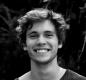
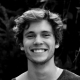
CSS .slider-item__avatar style

diff --git a/css/main.min.css b/css/main.min.css
@@ -1,1 +1,1 @@
-@import"https://fonts.googleapis.com/css2?family=Montserrat:wght@500;700;800&display=swap";.section-price::before,.section-cta::before,.header::before{position:absolute;top:0;bottom:0;left:0;right:0;content:"";background-color:rgba(0,0,0,.35)}*{padding:0px;margin:0px;border:none}*,*::before,*::after{box-sizing:border-box}a,a:link,a:visited{text-decoration:none}a:hover{text-decoration:none}aside,nav,footer,header,section,main{display:block}h1,h2,h3,h4,h5,h6,p{font-size:inherit;font-weight:inherit}ul,ul li{list-style:none}img{vertical-align:top}img,svg{max-width:100%;height:auto}address{font-style:normal}input,textarea,button,select{font-family:inherit;font-size:inherit;color:inherit;background-color:rgba(0,0,0,0)}input::-ms-clear{display:none}button,input[type=submit]{display:inline-block;box-shadow:none;background-color:rgba(0,0,0,0);background:none;cursor:pointer}input:focus,input:active,button:focus,button:active{outline:none}button::-moz-focus-inner{padding:0;border:0}label{cursor:pointer}legend{display:block}.container{width:1200px;padding:0 15px;margin:0 auto}body{font-family:"Montserrat",sans-serif;color:#2e2e2e}.none{display:none}.header{position:relative;height:870px;background-image:url("./../img/header/header-bg.jpg");background-size:cover;background-position:center;background-repeat:no-repeat}.header__wrapper{padding-top:60px;position:absolute;z-index:9;top:0;bottom:0;left:0;right:0;color:#fff}.header__buttons{display:flex;justify-content:space-between}.header__content{position:absolute;top:50%;left:50%;transform:translate(-50%, -50%);text-align:center}.header__title{margin-bottom:40px;font-size:96px;font-weight:700;line-height:1}.header__desc{margin-bottom:70px;max-width:730px;margin-left:auto;margin-right:auto;font-size:20px;font-weight:700;line-height:normal}.header__form{display:flex;justify-content:center;-moz-column-gap:20px;column-gap:20px}.header__scroll{position:absolute;left:50%;bottom:100px;transform:translateX(-50%)}.button-round{width:60px;height:60px;border-radius:50%;background-color:#fff;cursor:pointer}.button-round:hover{background-color:#00c470}.input{padding:0 30px;width:240px;height:60px;background-color:rgba(0,0,0,.75);border-radius:30px;font-size:14px;font-weight:700;line-height:60px;color:#fff}.input:focus{background-color:#000}.input::-moz-placeholder{color:#fff}.input::placeholder{color:#fff}.button{padding:0 40px;height:60px;border-radius:30px;background-color:#00c470;font-size:14px;font-weight:800;line-height:14px;letter-spacing:4px;text-transform:uppercase;color:#fff;transition:background-color .2s ease-in}.button:hover{background-color:#00ad62}.button:focus{background-color:#00a05a}.section-functional{padding:80px 0}.section-functional__header{margin-bottom:70px;text-align:center}.section-functional__title{margin-bottom:40px}.section-functional__row{display:flex;-moz-column-gap:30px;column-gap:30px}.title{font-size:16px;font-weight:700;line-height:1;letter-spacing:4px;text-transform:uppercase;color:#15d784}.subtitle{font-size:48px;font-weight:700;line-height:1}.card{width:270px;text-align:center}.card__img{margin-bottom:40px}.card__title{margin-bottom:20px;font-size:16px;font-weight:700;line-height:1}.card__text{font-size:14px;font-weight:500;line-height:2.14;color:gray}.section-cta{position:relative;padding:83px 0 84px;background-image:url("./../img/cta/cta-bg.jpg");background-size:cover;background-position:center;background-repeat:no-repeat}.section-cta__content{z-index:9;position:relative;text-align:center}.section-cta__title{margin-bottom:40px;font-size:22px;font-weight:500;line-height:1;color:#fff}.section-cta__title span{font-weight:700;text-transform:uppercase}.section-tasks{padding:80px 0 40px;border-bottom:1px solid #e1e1e1}.section-tasks__row{padding-left:100px;padding-right:114px;display:flex;justify-content:space-between;align-items:center}.section-tasks__content{width:570px}.section-tasks__header{margin-bottom:30px}.section-tasks__title{margin-bottom:30px}.section-tasks__text{width:400px;font-size:14px;font-weight:500;line-height:2.14;color:gray}.section-tasks__text p+*{margin-top:15px}.section-focus{padding:80px 0 40px}.section-focus__row{display:flex;justify-content:space-between}.section-focus__content{padding-top:28px;width:470px}.section-focus__header{margin-bottom:30px}.section-focus__title{margin-bottom:30px}.section-focus__text{width:400px}.section-focus__text p+*{margin-top:15px}.section-price{position:relative;padding:90px 0 100px;background-image:url("./../img/prices/prices-bg.jpg");background-size:cover;background-position:center;background-repeat:no-repeat}.section-price__content{position:relative;z-index:9}.section-price__content .title,.section-price__content .subtitle{color:#fff}.section-price__header{margin-bottom:80px;text-align:center}.section-price__title{margin-bottom:40px}.section-price__row{display:flex;justify-content:center;-moz-column-gap:30px;column-gap:30px;-webkit-box-pack:center}.package{display:flex;flex-direction:column;padding:40px 0;width:300px;background:rgba(0,0,0,.75);border-radius:8px;text-align:center;color:#fff}.package--special{background-color:rgba(48,79,254,.95)}.package--special .package__title{color:#fff}.package--special .package__period{background-color:rgba(0,0,0,.1)}.package__header{padding:0 15px;padding-bottom:40px;display:flex;flex-direction:column;align-items:center;border-bottom:1px solid rgba(255,255,255,.1)}.package__title{margin-bottom:20px;font-size:16px;font-weight:700;line-height:1;letter-spacing:4px;text-transform:uppercase;color:#b2b2b2}.package__price{margin-bottom:15px;font-size:80px;font-weight:700;line-height:1;letter-spacing:4px;text-transform:uppercase;color:#fff}.package__period{padding:0 15px;display:inline-block;height:24px;border-radius:30px;background-color:rgba(255,255,255,.1);font-size:12px;font-weight:700;line-height:24px;letter-spacing:4px;text-transform:uppercase;color:#fff}.package__list{margin-bottom:58px;padding:40px 15px 0}.package__list-item{margin-bottom:25px}.package__list-item:last-child{margin-bottom:0}.package__button{margin-top:auto}.button-outline{padding:0 40px;height:60px;border-radius:30px;background-color:rgba(0,0,0,0);border:1px solid rgba(255,255,255,.2);font-size:14px;font-weight:800;line-height:14px;letter-spacing:4px;text-transform:uppercase;color:#fff;transition:background-color .2s ease-in}.button-outline:hover{background-color:rgba(255,255,255,.2);border:1px solid rgba(255,255,255,0)}.button-outline:focus{background-color:#000}.button-solid{padding:0 40px;height:60px;border-radius:30px;background-color:#fff;font-size:14px;font-weight:800;line-height:14px;letter-spacing:4px;text-transform:uppercase;color:#2e2e2e;transition:background-color .2s ease-in}.button-solid:hover{background-color:#000;color:#fff}.button-solid:focus{background-color:#2f2f2f;color:#fff}.section-clients{padding:80px 0}.section-clients__header{margin-bottom:60px;text-align:center}.section-clients__title{margin-bottom:40px}.section-clients__slider{margin:0 auto;width:770px}.slider{position:relative;background-color:#8a2be2}.slider__arrow{position:absolute;display:flex;justify-content:center;align-items:center;width:54px;height:54px;border-radius:50%;background-color:#f5f5f5}.slider__arrow--left{top:53px;left:-46px;transform:translateX(-100%)}.slider__arrow--right{top:53px;right:-46px;transform:translateX(100%)}.slider-item{display:flex;flex-direction:column;align-items:center;background-color:blue}.slider-item__text{margin-bottom:30px;text-align:center;font-size:18px;font-weight:500;line-height:2;color:#000}.slider-item__author{display:flex;gap:20px;align-items:center}/*# sourceMappingURL=main.min.css.map */
+@import"https://fonts.googleapis.com/css2?family=Montserrat:wght@500;700;800&display=swap";.section-price::before,.section-cta::before,.header::before{position:absolute;top:0;bottom:0;left:0;right:0;content:"";background-color:rgba(0,0,0,.35)}*{padding:0px;margin:0px;border:none}*,*::before,*::after{box-sizing:border-box}a,a:link,a:visited{text-decoration:none}a:hover{text-decoration:none}aside,nav,footer,header,section,main{display:block}h1,h2,h3,h4,h5,h6,p{font-size:inherit;font-weight:inherit}ul,ul li{list-style:none}img{vertical-align:top}img,svg{max-width:100%;height:auto}address{font-style:normal}input,textarea,button,select{font-family:inherit;font-size:inherit;color:inherit;background-color:rgba(0,0,0,0)}input::-ms-clear{display:none}button,input[type=submit]{display:inline-block;box-shadow:none;background-color:rgba(0,0,0,0);background:none;cursor:pointer}input:focus,input:active,button:focus,button:active{outline:none}button::-moz-focus-inner{padding:0;border:0}label{cursor:pointer}legend{display:block}.container{width:1200px;padding:0 15px;margin:0 auto}body{font-family:"Montserrat",sans-serif;color:#2e2e2e}.none{display:none}.header{position:relative;height:870px;background-image:url("./../img/header/header-bg.jpg");background-size:cover;background-position:center;background-repeat:no-repeat}.header__wrapper{padding-top:60px;position:absolute;z-index:9;top:0;bottom:0;left:0;right:0;color:#fff}.header__buttons{display:flex;justify-content:space-between}.header__content{position:absolute;top:50%;left:50%;transform:translate(-50%, -50%);text-align:center}.header__title{margin-bottom:40px;font-size:96px;font-weight:700;line-height:1}.header__desc{margin-bottom:70px;max-width:730px;margin-left:auto;margin-right:auto;font-size:20px;font-weight:700;line-height:normal}.header__form{display:flex;justify-content:center;-moz-column-gap:20px;column-gap:20px}.header__scroll{position:absolute;left:50%;bottom:100px;transform:translateX(-50%)}.button-round{width:60px;height:60px;border-radius:50%;background-color:#fff;cursor:pointer}.button-round:hover{background-color:#00c470}.input{padding:0 30px;width:240px;height:60px;background-color:rgba(0,0,0,.75);border-radius:30px;font-size:14px;font-weight:700;line-height:60px;color:#fff}.input:focus{background-color:#000}.input::-moz-placeholder{color:#fff}.input::placeholder{color:#fff}.button{padding:0 40px;height:60px;border-radius:30px;background-color:#00c470;font-size:14px;font-weight:800;line-height:14px;letter-spacing:4px;text-transform:uppercase;color:#fff;transition:background-color .2s ease-in}.button:hover{background-color:#00ad62}.button:focus{background-color:#00a05a}.section-functional{padding:80px 0}.section-functional__header{margin-bottom:70px;text-align:center}.section-functional__title{margin-bottom:40px}.section-functional__row{display:flex;-moz-column-gap:30px;column-gap:30px}.title{font-size:16px;font-weight:700;line-height:1;letter-spacing:4px;text-transform:uppercase;color:#15d784}.subtitle{font-size:48px;font-weight:700;line-height:1}.card{width:270px;text-align:center}.card__img{margin-bottom:40px}.card__title{margin-bottom:20px;font-size:16px;font-weight:700;line-height:1}.card__text{font-size:14px;font-weight:500;line-height:2.14;color:gray}.section-cta{position:relative;padding:83px 0 84px;background-image:url("./../img/cta/cta-bg.jpg");background-size:cover;background-position:center;background-repeat:no-repeat}.section-cta__content{z-index:9;position:relative;text-align:center}.section-cta__title{margin-bottom:40px;font-size:22px;font-weight:500;line-height:1;color:#fff}.section-cta__title span{font-weight:700;text-transform:uppercase}.section-tasks{padding:80px 0 40px;border-bottom:1px solid #e1e1e1}.section-tasks__row{padding-left:100px;padding-right:114px;display:flex;justify-content:space-between;align-items:center}.section-tasks__content{width:570px}.section-tasks__header{margin-bottom:30px}.section-tasks__title{margin-bottom:30px}.section-tasks__text{width:400px;font-size:14px;font-weight:500;line-height:2.14;color:gray}.section-tasks__text p+*{margin-top:15px}.section-focus{padding:80px 0 40px}.section-focus__row{display:flex;justify-content:space-between}.section-focus__content{padding-top:28px;width:470px}.section-focus__header{margin-bottom:30px}.section-focus__title{margin-bottom:30px}.section-focus__text{width:400px}.section-focus__text p+*{margin-top:15px}.section-price{position:relative;padding:90px 0 100px;background-image:url("./../img/prices/prices-bg.jpg");background-size:cover;background-position:center;background-repeat:no-repeat}.section-price__content{position:relative;z-index:9}.section-price__content .title,.section-price__content .subtitle{color:#fff}.section-price__header{margin-bottom:80px;text-align:center}.section-price__title{margin-bottom:40px}.section-price__row{display:flex;justify-content:center;-moz-column-gap:30px;column-gap:30px;-webkit-box-pack:center}.package{display:flex;flex-direction:column;padding:40px 0;width:300px;background:rgba(0,0,0,.75);border-radius:8px;text-align:center;color:#fff}.package--special{background-color:rgba(48,79,254,.95)}.package--special .package__title{color:#fff}.package--special .package__period{background-color:rgba(0,0,0,.1)}.package__header{padding:0 15px;padding-bottom:40px;display:flex;flex-direction:column;align-items:center;border-bottom:1px solid rgba(255,255,255,.1)}.package__title{margin-bottom:20px;font-size:16px;font-weight:700;line-height:1;letter-spacing:4px;text-transform:uppercase;color:#b2b2b2}.package__price{margin-bottom:15px;font-size:80px;font-weight:700;line-height:1;letter-spacing:4px;text-transform:uppercase;color:#fff}.package__period{padding:0 15px;display:inline-block;height:24px;border-radius:30px;background-color:rgba(255,255,255,.1);font-size:12px;font-weight:700;line-height:24px;letter-spacing:4px;text-transform:uppercase;color:#fff}.package__list{margin-bottom:58px;padding:40px 15px 0}.package__list-item{margin-bottom:25px}.package__list-item:last-child{margin-bottom:0}.package__button{margin-top:auto}.button-outline{padding:0 40px;height:60px;border-radius:30px;background-color:rgba(0,0,0,0);border:1px solid rgba(255,255,255,.2);font-size:14px;font-weight:800;line-height:14px;letter-spacing:4px;text-transform:uppercase;color:#fff;transition:background-color .2s ease-in}.button-outline:hover{background-color:rgba(255,255,255,.2);border:1px solid rgba(255,255,255,0)}.button-outline:focus{background-color:#000}.button-solid{padding:0 40px;height:60px;border-radius:30px;background-color:#fff;font-size:14px;font-weight:800;line-height:14px;letter-spacing:4px;text-transform:uppercase;color:#2e2e2e;transition:background-color .2s ease-in}.button-solid:hover{background-color:#000;color:#fff}.button-solid:focus{background-color:#2f2f2f;color:#fff}.section-clients{padding:80px 0}.section-clients__header{margin-bottom:60px;text-align:center}.section-clients__title{margin-bottom:40px}.section-clients__slider{margin:0 auto;width:770px}.slider{position:relative;background-color:#8a2be2}.slider__arrow{position:absolute;display:flex;justify-content:center;align-items:center;width:54px;height:54px;border-radius:50%;background-color:#f5f5f5}.slider__arrow--left{top:53px;left:-46px;transform:translateX(-100%)}.slider__arrow--right{top:53px;right:-46px;transform:translateX(100%)}.slider-item{display:flex;flex-direction:column;align-items:center;background-color:blue}.slider-item__text{margin-bottom:30px;text-align:center;font-size:18px;font-weight:500;line-height:2;color:#000}.slider-item__author{display:flex;gap:20px;align-items:center}.slider-item__avatar{width:80px;height:80px;border-radius:50%;overflow:hidden}/*# sourceMappingURL=main.min.css.map */

diff --git a/css/main.css b/css/main.css
@@ -598,4 +598,11 @@ body {
   display: flex;
   gap: 20px;
   align-items: center;
+}
+
+.slider-item__avatar {
+  width: 80px;
+  height: 80px;
+  border-radius: 50%;
+  overflow: hidden;
 }/*# sourceMappingURL=main.css.map */

diff --git a/sass/blocks/_slider.scss b/sass/blocks/_slider.scss
@@ -52,6 +52,10 @@
 }
 
 .slider-item__avatar {
+    width: 80px;
+    height: 80px;
+    border-radius: 50%;
+    overflow: hidden;
 }
 
 .slider-item__name {
